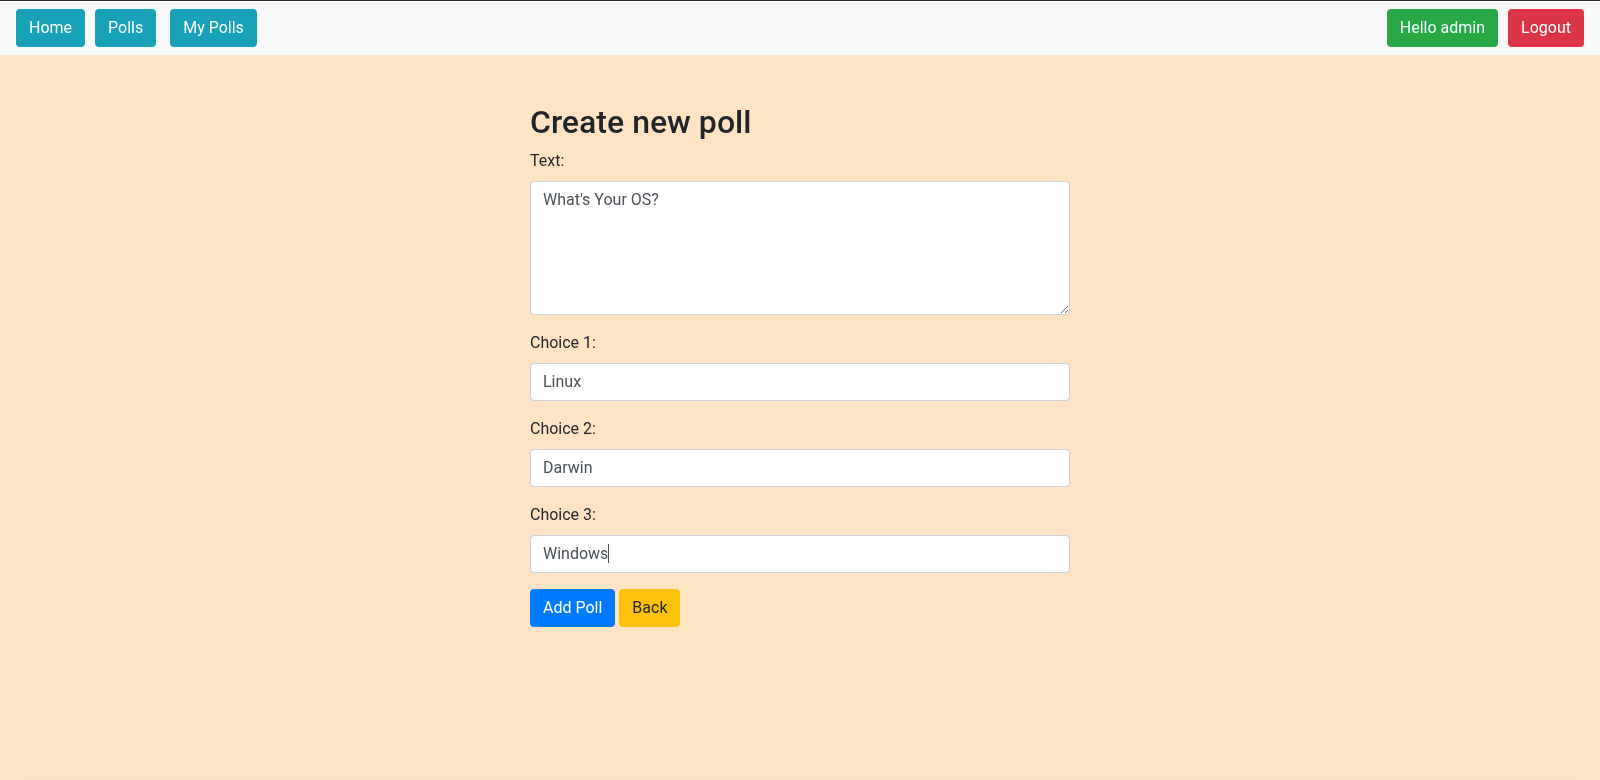
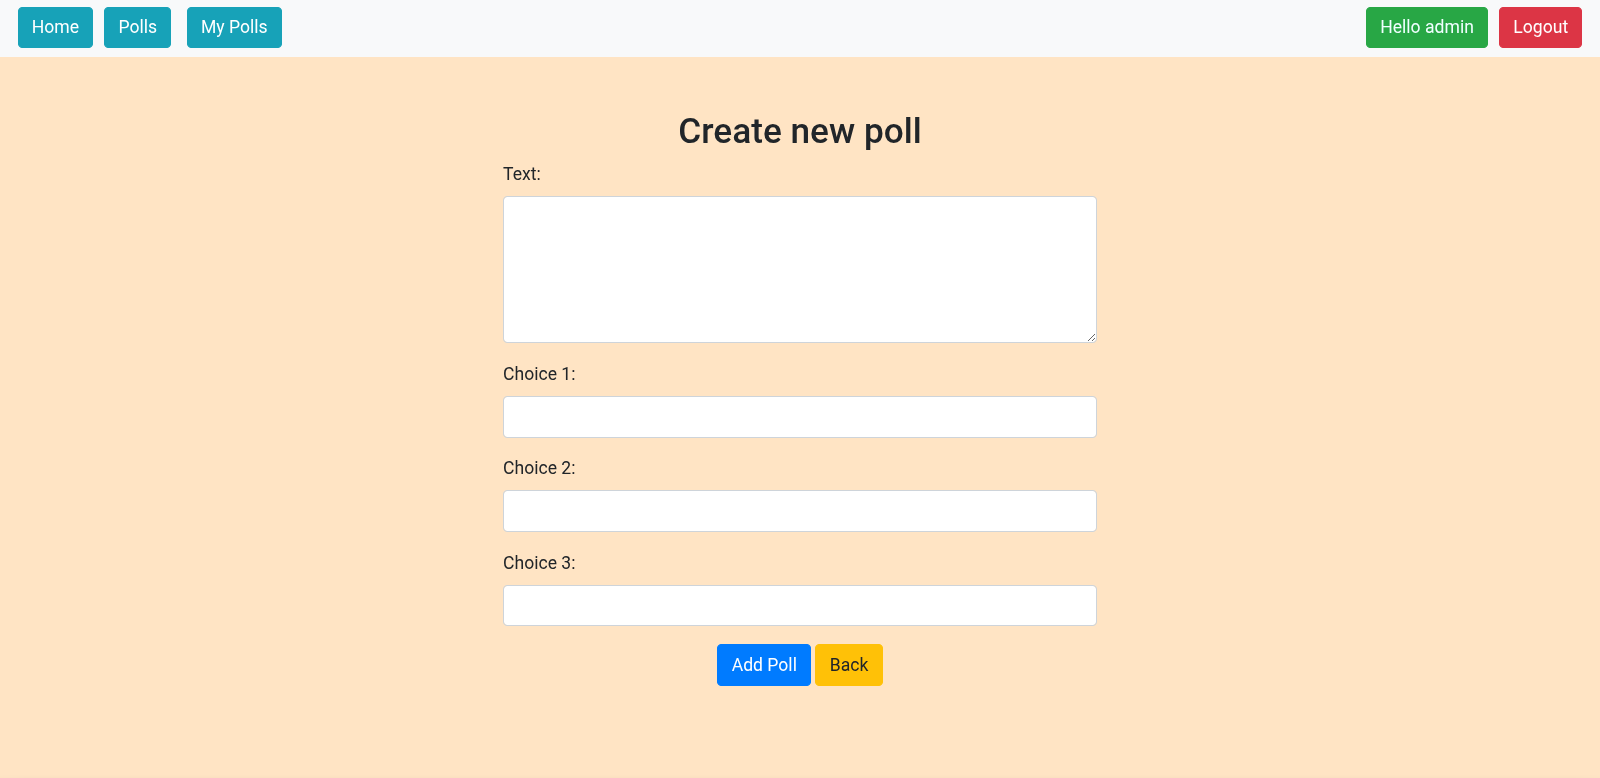
SnapShots Added

Changed region(s): [[0.3125, 0.1234, 0.6875, 0.8946], [0.0, 0.0, 0.1875, 0.0617], [0.8438, 0.0, 1.0, 0.0617]]

diff --git a/README.md b/README.md
@@ -2,11 +2,11 @@
 
 # Poll App with Django
 
-Django Poll App is a straight-forward App for creating and voting Polls
-Simple UI and High Functional Poll App.
+Django Poll App is a straight-forward App for creating and voting Polls.<br>
+Simple UI and High Functional Poll App.<br>
 Try it :)
 
-<h2>Project Snapshots</h2>
+<h2>Screenshots</h2>
 
 <p align="center">
   <img src="img1.png" width="100%"/>
@@ -28,10 +28,10 @@ Try it :)
 * Download and install Python 3.10<br>
 * Download and install Git.
 <h4>Cloning</h4>
-<code>git clone https://github.com/ahghanbari/poll_request_app.git</code><br>
+<code>git clone https://github.com/ahghanbari/Django-Poll-App.git</code><br>
 
 <h4>Virtual Environment</h4>
-<code>cd poll_request_app</code><br>
+<code>cd Django-Poll-App</code><br>
 <code>pip install virtualenv</code><br>
 <code>python3 -m venv .venv</code><br>
 <code>source .venv/bin/activate</code><br>
@@ -53,4 +53,4 @@ Try it :)
 <p>This project is licensed under the MIT License - see the <code>LICENSE</code> file for details.</p>
 
 <h2>Contributing</h2>
-<p>For contribution, bug report and feature request please go to <code>https://github.com/ahghanbari/poll_request_app/issues</code></p>
+<p>For contribution, bug report and feature request please go to <code>https://github.com/ahghanbari/Django-Poll-App/issues</code></p>